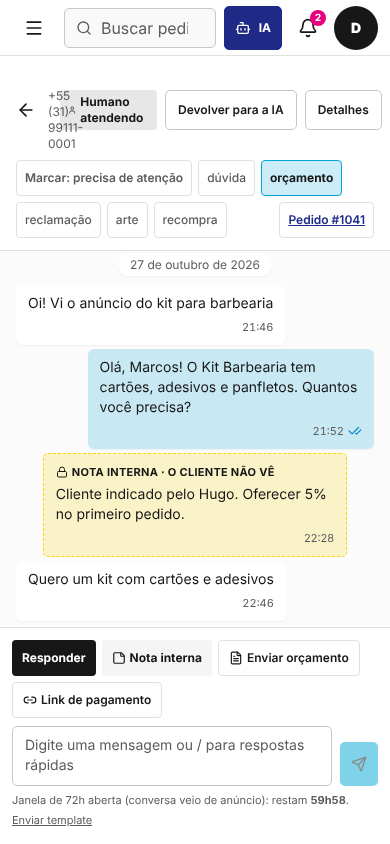
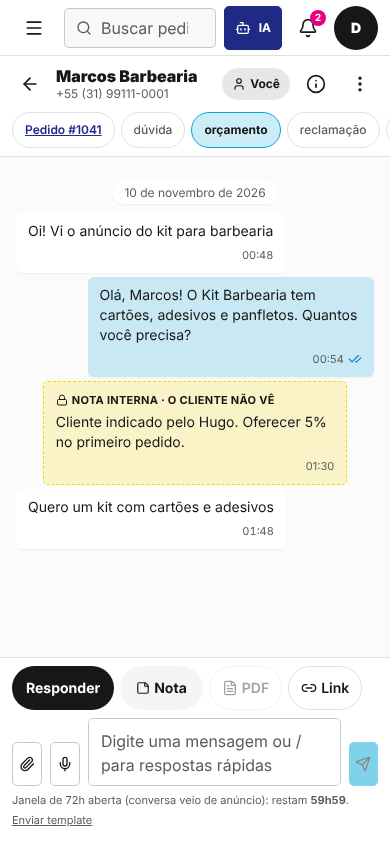
CRM no celular: conversa compacta, sem zoom, navegação inferior e Kanban enxuto (#82)
Claude-Session: https://claude.ai/code/session_011eCc4npLnrqkRDFUsTG1ir

diff --git a/src/features/inbox/ChatPanel.tsx b/src/features/inbox/ChatPanel.tsx
@@ -1,9 +1,10 @@
 import { useMutation, useQueryClient } from '@tanstack/react-query'
-import { ArrowLeft, Bot, FileText, Link2, Lock, Mic, Paperclip, Send, Square, StickyNote, User, X } from 'lucide-react'
+import { ArrowLeft, Bot, FileText, Info, Link2, Lock, Mic, MoreVertical, Paperclip, Send, Square, StickyNote, User, X } from 'lucide-react'
 import { useEffect, useLayoutEffect, useMemo, useRef, useState, type KeyboardEvent } from 'react'
 import { Link } from 'react-router-dom'
 import { Badge } from '@/components/ui/badge'
 import { Button } from '@/components/ui/button'
+import { Menu, MenuContent, MenuItem, MenuSeparator, MenuTrigger } from '@/components/ui/menu'
 import { Textarea } from '@/components/ui/textarea'
 import { useToast } from '@/components/ui/toast'
 import { useOrders } from '@/hooks/orders'
@@ -272,6 +273,15 @@ export function ChatPanel({ conversation, onDetails }: { conversation: Conversat
     }
   }
 
+  // campo de mensagem cresce com o texto (até 140 px) e volta ao normal depois de enviar
+  const taRef = useRef<HTMLTextAreaElement>(null)
+  useLayoutEffect(() => {
+    const t = taRef.current
+    if (!t) return
+    t.style.height = 'auto'
+    t.style.height = `${Math.min(t.scrollHeight, 140)}px`
+  }, [text, mode])
+
   const timeline = useMemo(() => {
     const items = [
       ...(messages ?? []).filter((m) => m.type !== 'reaction').map((m) => ({ kind: 'msg' as const, at: m.created_at, m })),
@@ -315,16 +325,17 @@ export function ChatPanel({ conversation, onDetails }: { conversation: Conversat
         orcamento={orcAtivo ? { id: orcAtivo.id, numero: orcAtivo.numero, pdf_enviado_em: orcAtivo.pdf_enviado_em ?? null } : null}
         janelaAberta={win.open}
       />
-      <header className="space-y-2 border-b bg-card px-4 py-3">
-        <div className="flex items-center gap-3">
-          <Link to="/inbox" className="flex h-11 w-11 items-center justify-center md:hidden" aria-label="Voltar para a lista">
+      <header className="border-b bg-card">
+        <div className="flex items-center gap-1 px-2 py-1.5 md:gap-3 md:px-4 md:py-3">
+          <Link to="/inbox" className="flex h-11 w-11 shrink-0 items-center justify-center rounded-md hover:bg-secondary md:hidden" aria-label="Voltar para a lista">
             <ArrowLeft className="h-5 w-5" />
           </Link>
-          <div className="min-w-0">
-            <p className="truncate text-sm font-black">{contactLabel(conversation.contact)}</p>
-            <p className="text-xs text-muted-foreground">{formatPhone(conversation.contact.wa_id)}</p>
+          <div className="min-w-0 flex-1 md:flex-none">
+            <p className="truncate text-base font-black leading-tight md:text-sm">{contactLabel(conversation.contact)}</p>
+            <p className="truncate text-xs text-muted-foreground">{formatPhone(conversation.contact.wa_id)}</p>
           </div>
-          <div className="ml-auto flex items-center gap-2">
+          {/* Desktop: todas as ações à vista */}
+          <div className="ml-auto hidden items-center gap-2 md:flex">
             <span className={cn('flex items-center gap-1 rounded-sm px-2 py-1 text-xs font-bold', ai ? 'bg-brand-blue text-white' : 'bg-ink/10 text-ink')}>
               {ai ? <Bot className="h-3.5 w-3.5" aria-hidden /> : <User className="h-3.5 w-3.5" aria-hidden />}
               {ai ? 'IA atendendo' : 'Humano atendendo'}
@@ -340,17 +351,59 @@ export function ChatPanel({ conversation, onDetails }: { conversation: Conversat
               </Button>
             )}
           </div>
+          {/* Celular: só o essencial; o resto vai no menu (divulgação progressiva) */}
+          <div className="flex shrink-0 items-center md:hidden">
+            <span
+              className={cn('mr-1 flex h-8 items-center gap-1 rounded-full px-2.5 text-xs font-bold', ai ? 'bg-brand-blue text-white' : 'bg-ink/10 text-ink')}
+              role="status"
+            >
+              {ai ? <Bot className="h-3.5 w-3.5" aria-hidden /> : <User className="h-3.5 w-3.5" aria-hidden />}
+              {ai ? 'IA' : 'Você'}
+            </span>
+            {onDetails && (
+              <button onClick={onDetails} aria-label="Detalhes do cliente" className="flex h-11 w-11 items-center justify-center rounded-md hover:bg-secondary">
+                <Info className="h-5 w-5" />
+              </button>
+            )}
+            <Menu>
+              <MenuTrigger aria-label="Mais ações" className="flex h-11 w-11 items-center justify-center rounded-md hover:bg-secondary">
+                <MoreVertical className="h-5 w-5" />
+              </MenuTrigger>
+              <MenuContent align="end">
+                <MenuItem onSelect={ai ? takeOver : giveBack} disabled={updateConv.isPending}>
+                  {ai ? <User className="h-4 w-4" /> : <Bot className="h-4 w-4" />} {ai ? 'Assumir conversa' : 'Devolver para a IA'}
+                </MenuItem>
+                <MenuItem onSelect={() => updateConv.mutate({ needs_human: !conversation.needs_human })}>
+                  {conversation.needs_human ? 'Tirar marca de atenção' : 'Marcar: precisa de atenção'}
+                </MenuItem>
+                {openOrder && (
+                  <>
+                    <MenuSeparator />
+                    <MenuItem asChild>
+                      <Link to={`/kanban?pedido=${openOrder.id}`}>Abrir pedido #{openOrder.number}</Link>
+                    </MenuItem>
+                  </>
+                )}
+              </MenuContent>
+            </Menu>
+          </div>
         </div>
-        <div className="flex flex-wrap items-center gap-1.5">
+        {/* Etiquetas: uma linha só, com rolagem lateral no celular (nada de 3 linhas de botões) */}
+        <div className="flex items-center gap-1.5 overflow-x-auto px-3 pb-2 [scrollbar-width:none] md:flex-wrap md:px-4 md:pb-3 [&>*]:shrink-0 md:[&>*]:shrink">
+          {openOrder && (
+            <Link to={`/kanban?pedido=${openOrder.id}`} className="order-first inline-flex min-h-9 items-center gap-1 rounded-full border bg-background px-3 text-xs font-semibold text-link underline md:order-last md:ml-auto md:rounded-sm md:px-2">
+              Pedido #{openOrder.number}
+            </Link>
+          )}
           <button
             onClick={() => updateConv.mutate({ needs_human: !conversation.needs_human })}
             aria-pressed={!!conversation.needs_human}
             className={cn(
-              'min-h-9 rounded-sm border px-2 text-xs font-semibold',
-              conversation.needs_human ? 'border-brand-red bg-brand-red text-white' : 'bg-background text-muted-foreground hover:bg-secondary',
+              'min-h-9 whitespace-nowrap rounded-full border px-3 text-xs font-semibold md:rounded-sm md:px-2',
+              conversation.needs_human ? 'border-brand-red bg-brand-red text-white' : 'hidden bg-background text-muted-foreground hover:bg-secondary md:block',
             )}
           >
-            {conversation.needs_human ? 'Precisa de atenção humana' : 'Marcar: precisa de atenção'}
+            {conversation.needs_human ? 'Precisa de atenção' : 'Marcar: precisa de atenção'}
           </button>
           {(labelsList ?? []).map((l) => {
             const on = conversation.labels?.includes(l)
@@ -359,17 +412,12 @@ export function ChatPanel({ conversation, onDetails }: { conversation: Conversat
                 key={l}
                 aria-pressed={!!on}
                 onClick={() => updateConv.mutate({ labels: on ? (conversation.labels ?? []).filter((x) => x !== l) : [...(conversation.labels ?? []), l] })}
-                className={cn('min-h-9 rounded-sm border px-2 text-xs font-medium', on ? 'border-brand-cyan bg-brand-cyan/20 font-bold text-ink' : 'bg-background text-muted-foreground hover:bg-secondary')}
+                className={cn('min-h-9 whitespace-nowrap rounded-full border px-3 text-xs font-medium md:rounded-sm md:px-2', on ? 'border-brand-cyan bg-brand-cyan/20 font-bold text-ink' : 'bg-background text-muted-foreground hover:bg-secondary')}
               >
                 {l}
               </button>
             )
           })}
-          {openOrder && (
-            <Link to={`/kanban?pedido=${openOrder.id}`} className="ml-auto inline-flex min-h-9 items-center gap-1 rounded-sm border bg-background px-2 text-xs font-semibold text-link underline">
-              Pedido #{openOrder.number}
-            </Link>
-          )}
         </div>
       </header>
 
@@ -437,19 +485,19 @@ export function ChatPanel({ conversation, onDetails }: { conversation: Conversat
         <div ref={bottomRef} />
       </div>
 
-      <footer className="border-t bg-card p-3">
+      <footer className="border-t bg-card px-3 pt-2 pb-[max(0.75rem,env(safe-area-inset-bottom))] md:p-3">
         {error && (
           <p role="alert" className="mb-2 rounded-md border border-destructive/30 bg-destructive/5 px-3 py-2 text-sm">
             {error}
           </p>
         )}
 
-        <div className="mb-2 flex flex-wrap items-center gap-1.5" role="tablist" aria-label="Tipo de envio">
-          <button role="tab" aria-selected={mode === 'reply'} onClick={() => setMode('reply')} className={cn('min-h-9 rounded-sm px-2.5 text-xs font-bold', mode === 'reply' ? 'bg-ink text-white' : 'bg-secondary')}>
+        <div className="mb-2 flex items-center gap-1.5 overflow-x-auto [scrollbar-width:none] md:flex-wrap [&>*]:shrink-0" role="tablist" aria-label="Tipo de envio">
+          <button role="tab" aria-selected={mode === 'reply'} onClick={() => setMode('reply')} className={cn('min-h-11 rounded-full px-3.5 text-sm font-bold md:min-h-9 md:rounded-sm md:px-2.5 md:text-xs', mode === 'reply' ? 'bg-ink text-white' : 'bg-secondary')}>
             Responder
           </button>
-          <button role="tab" aria-selected={mode === 'note'} onClick={() => setMode('note')} className={cn('inline-flex min-h-9 items-center gap-1 rounded-sm px-2.5 text-xs font-bold', mode === 'note' ? 'bg-brand-yellow text-ink' : 'bg-secondary')}>
-            <StickyNote className="h-3.5 w-3.5" aria-hidden /> Nota interna
+          <button role="tab" aria-selected={mode === 'note'} onClick={() => setMode('note')} className={cn('inline-flex min-h-11 items-center gap-1 rounded-full px-4 text-sm font-bold md:min-h-9 md:rounded-sm md:px-2.5 md:text-xs', mode === 'note' ? 'bg-brand-yellow text-ink' : 'bg-secondary')}>
+            <StickyNote className="h-3.5 w-3.5" aria-hidden /> <span className="md:hidden">Nota</span><span className="hidden md:inline">Nota interna</span>
           </button>
           {mode === 'reply' && canReply && (
             <>
@@ -457,17 +505,17 @@ export function ChatPanel({ conversation, onDetails }: { conversation: Conversat
                 disabled={!orcAtivo}
                 onClick={enviarOrcamentoPdf}
                 title={orcAtivo ? 'Envia o PDF do orçamento no WhatsApp' : 'Este pedido não tem orçamento ativo. Crie ou abra o orçamento no pedido.'}
-                className="inline-flex min-h-9 items-center gap-1 rounded-sm border px-2.5 text-xs font-semibold disabled:opacity-40"
+                className="inline-flex min-h-11 items-center gap-1 whitespace-nowrap rounded-full border px-3 text-sm font-semibold disabled:opacity-40 md:min-h-9 md:rounded-sm md:px-2.5 md:text-xs"
               >
-                <FileText className="h-3.5 w-3.5" aria-hidden /> Enviar PDF do orçamento
+                <FileText className="h-4 w-4 md:h-3.5 md:w-3.5" aria-hidden /> <span className="md:hidden">PDF</span><span className="hidden md:inline">Enviar PDF do orçamento</span>
               </button>
               <button
                 disabled={!openOrder?.payment_link}
                 title={openOrder?.payment_link ? undefined : 'O pedido ainda não tem link de pagamento'}
                 onClick={() => openOrder?.payment_link && setText(`Segue o link para pagamento (${formatBRL(openOrder.fin.total)}): ${openOrder.payment_link}`)}
-                className="inline-flex min-h-9 items-center gap-1 rounded-sm border px-2.5 text-xs font-semibold disabled:opacity-40"
+                className="inline-flex min-h-11 items-center gap-1 whitespace-nowrap rounded-full border px-3 text-sm font-semibold disabled:opacity-40 md:min-h-9 md:rounded-sm md:px-2.5 md:text-xs"
               >
-                <Link2 className="h-3.5 w-3.5" aria-hidden /> Link de pagamento
+                <Link2 className="h-4 w-4 md:h-3.5 md:w-3.5" aria-hidden /> <span className="md:hidden">Link</span><span className="hidden md:inline">Link de pagamento</span>
               </button>
             </>
           )}
@@ -530,6 +578,7 @@ export function ChatPanel({ conversation, onDetails }: { conversation: Conversat
                 </>
               )}
               <Textarea
+                ref={taRef}
                 value={text}
                 onChange={(e) => setText(e.target.value)}
                 onKeyDown={onKeyDown}
@@ -540,10 +589,10 @@ export function ChatPanel({ conversation, onDetails }: { conversation: Conversat
                     adicionarArquivos(imgs)
                   }
                 }}
-                rows={mode === 'reply' && text.includes('\n') ? 5 : 2}
+                rows={text.includes('\n') ? 5 : 1}
+                className={cn('min-h-11 resize-none py-2.5 md:min-h-[60px] md:py-2', mode === 'note' && 'border-brand-yellow bg-brand-yellow/10')}
                 placeholder={mode === 'note' ? 'Nota só para você (o cliente não recebe)' : 'Digite uma mensagem ou / para respostas rápidas'}
                 aria-label={mode === 'note' ? 'Nota interna' : 'Mensagem'}
-                className={cn('resize-none', mode === 'note' && 'border-brand-yellow bg-brand-yellow/10')}
               />
               <Button onClick={submit} disabled={(!text.trim() && !(mode === 'reply' && arquivos.length)) || send.isPending || sendFile.isPending || addNote.isPending} size="icon" aria-label={mode === 'note' ? 'Salvar nota' : 'Enviar'}>
                 <Send className="h-4 w-4" />

diff --git a/src/components/Layout.tsx b/src/components/Layout.tsx
@@ -17,6 +17,7 @@ import {
   LogOut,
   Megaphone,
   Menu as MenuIcon,
+  Ellipsis,
   MessageSquare,
   Package,
   Search,
@@ -235,6 +236,33 @@ function Topbar({ onMenu }: { onMenu: () => void }) {
   )
 }
 
+/** Navegação inferior do celular (até 5 itens, alvo de 44 px+). Some quando uma conversa está aberta, como no WhatsApp. */
+function BottomNav({ onMore }: { onMore: () => void }) {
+  const { data: convs } = useConversations()
+  const unread = (convs ?? []).reduce((n, c) => n + c.unread_count, 0)
+  const itens: { to: string; label: string; icon: LucideIcon; badge?: number }[] = [
+    { to: '/inbox', label: 'Conversas', icon: MessageSquare, badge: unread },
+    { to: '/kanban', label: 'Kanban', icon: KanbanSquare },
+    { to: '/pedidos', label: 'Pedidos', icon: ClipboardList },
+    { to: '/contatos', label: 'Contatos', icon: Users },
+  ]
+  return (
+    <nav aria-label="Navegação rápida" className="fixed inset-x-0 bottom-0 z-30 flex border-t bg-background pb-[env(safe-area-inset-bottom)] md:hidden">
+      {itens.map(({ to, label, icon: Icon, badge }) => (
+        <NavLink key={to} to={to} className={({ isActive }) => cn('relative flex min-h-14 flex-1 flex-col items-center justify-center gap-0.5 text-[11px] font-semibold', isActive ? 'text-brand-magenta' : 'text-muted-foreground')}>
+          <Icon className="h-5 w-5" aria-hidden />
+          {label}
+          {!!badge && <span className="absolute right-[calc(50%-1.5rem)] top-1.5 flex h-4 min-w-4 items-center justify-center rounded-full bg-brand-magenta px-1 text-[10px] font-bold text-white tabular">{badge > 99 ? '99+' : badge}</span>}
+        </NavLink>
+      ))}
+      <button onClick={onMore} className="flex min-h-14 flex-1 flex-col items-center justify-center gap-0.5 text-[11px] font-semibold text-muted-foreground">
+        <Ellipsis className="h-5 w-5" aria-hidden />
+        Mais
+      </button>
+    </nav>
+  )
+}
+
 export default function Layout() {
   useRealtimeSync()
   const { data: alerts } = useQualityAlerts()
@@ -273,6 +301,8 @@ export default function Layout() {
     }
   })
   const [mobileOpen, setMobileOpen] = useState(false)
+  // conversa aberta no celular ocupa a tela toda (o compositor fica no rodapé), então a barra inferior some
+  const mostrarBarra = !/^\/inbox\/[^/]+/.test(location.pathname)
 
   useEffect(() => {
     try {
@@ -325,9 +355,10 @@ export default function Layout() {
             </p>
           </div>
         ))}
-        <main key={location.pathname.split('/')[1]} className="min-h-0 flex-1">
+        <main key={location.pathname.split('/')[1]} className={cn('min-h-0 flex-1', mostrarBarra && 'pb-[calc(3.5rem+env(safe-area-inset-bottom))] md:pb-0')}>
           <Outlet />
         </main>
+        {mostrarBarra && <BottomNav onMore={() => setMobileOpen(true)} />}
       </div>
     </div>
   )

diff --git a/src/pages/Kanban.tsx b/src/pages/Kanban.tsx
@@ -217,7 +217,7 @@ export default function Kanban() {
           </div>
         </div>
 
-        <div className="grid grid-cols-2 gap-x-4 gap-y-3 md:grid-cols-5">
+        <div className="-mx-4 flex gap-4 overflow-x-auto px-4 pb-1 [scrollbar-width:none] md:mx-0 md:grid md:grid-cols-5 md:gap-x-4 md:gap-y-3 md:px-0 [&>*]:shrink-0 [&>*]:basis-40 md:[&>*]:basis-auto">
           <Kpi label="Faturamento" value={formatBRL(revenue)} hint={`${paid.length} pedido(s) pago(s)`} />
           <Kpi label="Lucro líquido" value={formatBRL(profit)} hint={revenue > 0 ? `${formatPct((profit / revenue) * 100)} de margem` : undefined} />
           <Kpi label="Ticket médio" value={formatBRL(paid.length ? revenue / paid.length : 0)} />

diff --git a/src/components/ui/textarea.tsx b/src/components/ui/textarea.tsx
@@ -5,7 +5,7 @@ export const Textarea = forwardRef<HTMLTextAreaElement, TextareaHTMLAttributes<H
   <textarea
     ref={ref}
     className={cn(
-      'flex min-h-[60px] w-full rounded-md border border-input bg-background px-3 py-2 text-sm placeholder:text-muted-foreground focus-visible:outline-none focus-visible:ring-2 focus-visible:ring-ring disabled:cursor-not-allowed disabled:opacity-50',
+      'flex min-h-[60px] w-full rounded-md border border-input bg-background px-3 py-2 text-base md:text-sm placeholder:text-muted-foreground focus-visible:outline-none focus-visible:ring-2 focus-visible:ring-ring disabled:cursor-not-allowed disabled:opacity-50',
       className,
     )}
     {...props}

diff --git a/src/index.css b/src/index.css
@@ -59,6 +59,10 @@
   h1, h2, h3 { letter-spacing: -0.01em; }
   .tabular { font-variant-numeric: tabular-nums; }
   :focus-visible { outline: 2px solid hsl(var(--ring)); outline-offset: 2px; }
+  /* iPhone dá zoom ao focar campo com fonte menor que 16px: no celular todo campo fica com 16px */
+  @media (max-width: 767px) {
+    input:not([type='checkbox']):not([type='radio']), select, textarea { font-size: 16px !important; }
+  }
   @media (prefers-reduced-motion: reduce) {
     *, *::before, *::after { animation-duration: 0.01ms !important; transition-duration: 0.01ms !important; }
   }

diff --git a/docs/agente/progresso.md b/docs/agente/progresso.md
@@ -1,5 +1,12 @@
 # Progresso do agente de IA
 
+## CRM no celular: usabilidade (10/11/2026)
+- **Zoom ao tocar nos campos**: o iPhone dá zoom em campo com fonte menor que 16 px. Agora todo campo tem 16 px no celular (`src/index.css`) e o `Textarea` usa `text-base`.
+- **Conversa**: cabeçalho em uma linha (voltar, nome, status IA/Você, Detalhes e menu ⋯ com assumir/devolver, atenção e abrir pedido); etiquetas em uma fileira que rola; compositor com abas Responder/Nota, atalhos PDF e Link, campo que cresce com o texto e respeita a área segura do iPhone.
+- **Navegação**: barra inferior (Conversas com contador, Kanban, Pedidos, Contatos, Mais); some com a conversa aberta, como no WhatsApp.
+- **Kanban**: indicadores em uma fileira com rolagem lateral (antes ocupavam metade da tela).
+- Telas conferidas com o simulador (`docs/telas/conversa-celular.png`, `kanban-celular.png`). Próximos candidatos: lista de conversas, Contatos e gaveta do pedido.
+
 ## Fase 11: vitrine em modelos, CRM e cérebro da Laura (10/11/2026, branch `claude/funny-ride-s51uyy`)
 
 - **Banco (aplicado)**: migrations `20261124000001` (`loja_modelos`, SKU em `loja_buscar` e `loja_produto`, `irmaos`, `acabamentos_extras`, `loja_acabamentos`) e `20261124000002` (cérebro da Laura). Conferido: `loja_modelos` devolve 45 modelos de cartões, `anon` executa as funções novas e não lê a tabela de acabamentos.
